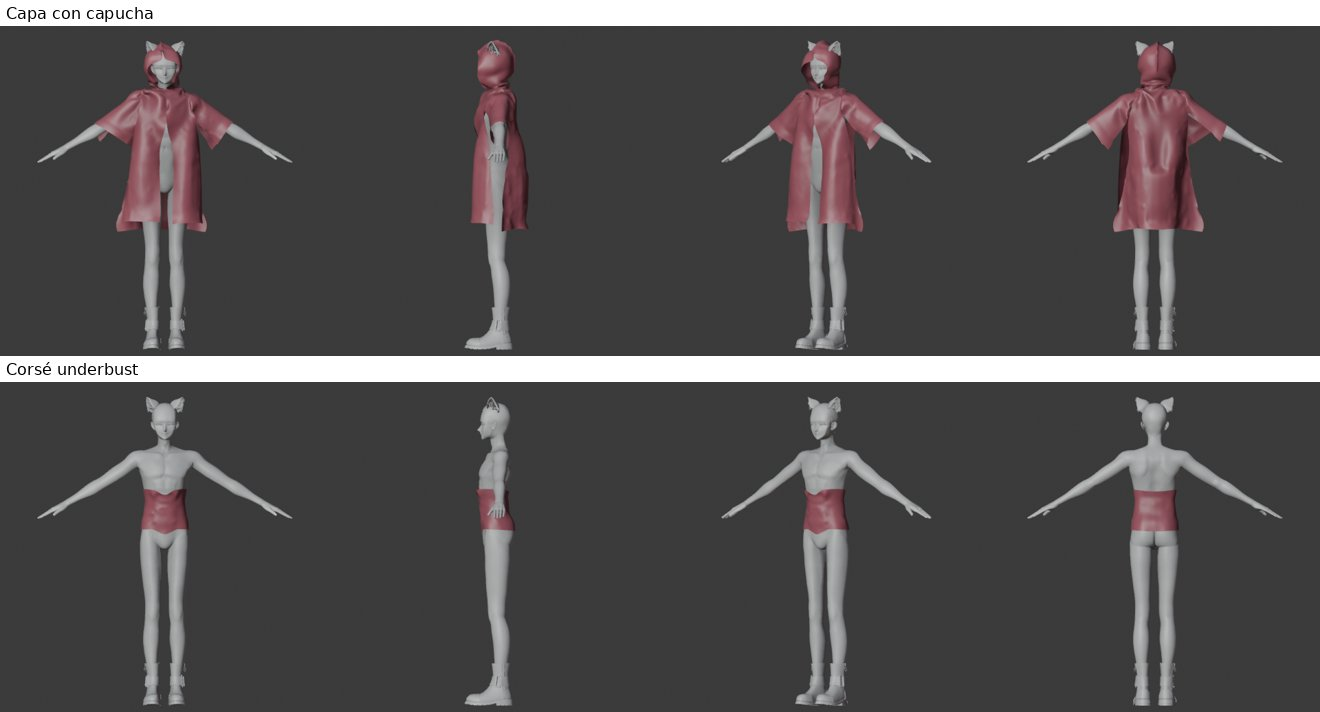
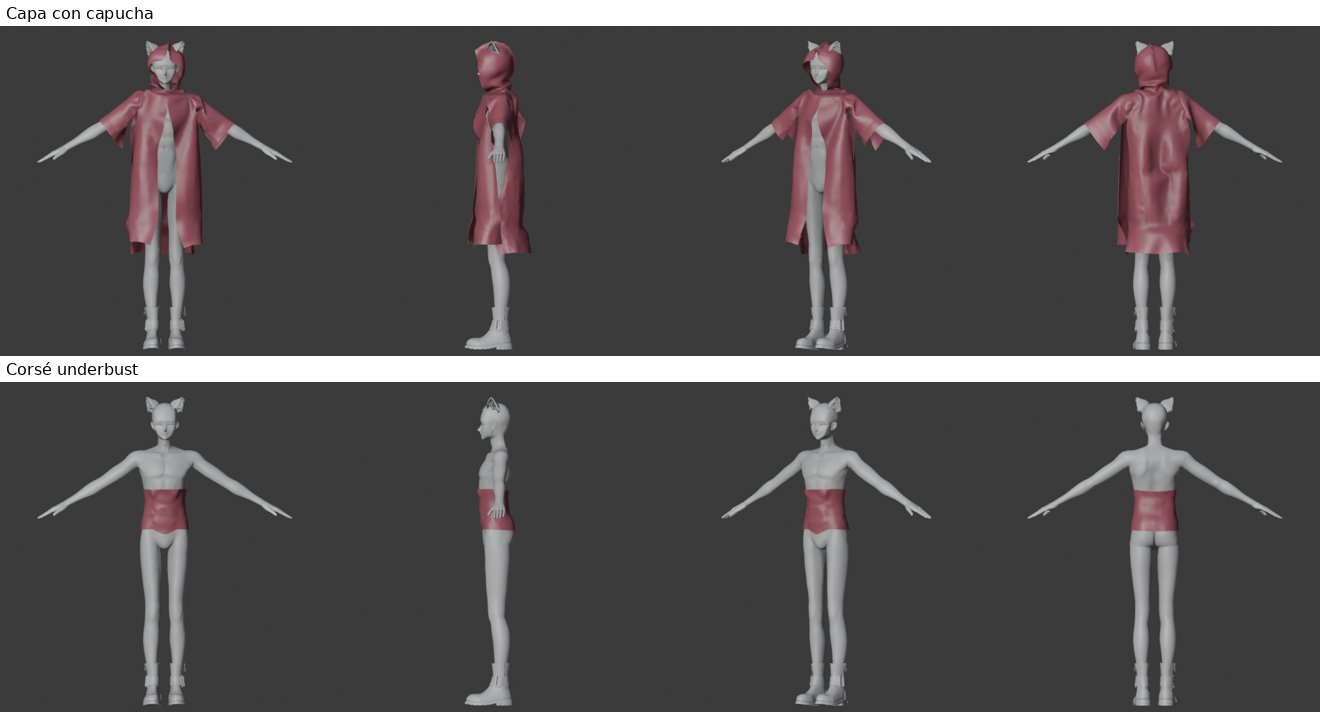
Prueba gótica: correcciones del advisor (cierre de la capa desde el cuello, largo con CAPE_EXTRA, underbust recto)
Claude-Session: https://claude.ai/code/session_01St8LTeWr6qLw6bSA7D5fYp

diff --git a/clothing_design/library.py b/clothing_design/library.py
@@ -1202,8 +1202,8 @@ def preset_corset(m, fit=-0.02, top_to="underarm", length_to="hip"):
     if underbust:
         # under the bust: a share of the way down from the armpit to the
         # waist (the measured "chest" line is no guide: on Hanka it is 4 cm
-        # under the shoulder), and never under the bust line; at least 6 cm
-        # above the waist
+        # under the shoulder), never above the bust line, and at least 6 cm
+        # above the waist (which is what decides on Manuka)
         pit0 = (Vector(arm0["p0"]).z - arm0["rad"][0]) if arm0 else z["chest"]
         top_z = pit0 - (pit0 - z["waist"]) * UNDERBUST_DROP
         top_z = max(min(top_z, z["chest"] - 0.02), z["waist"] + 0.06)
@@ -1247,7 +1247,8 @@ def preset_corset(m, fit=-0.02, top_to="underarm", length_to="hip"):
         drop = max(0.0, top_z - (pit - CORSET_PIT))
     def panel(name, front=False, dl=0.0, dr=0.0):
         return _corset_panel(tops[name], busts[name], waists[name], bots[name], Lb, Lw, L,
-                             CORSET_DIP if front else 0.0, CORSET_DIP if front else 0.0,
+                             (0.0 if underbust else CORSET_DIP) if front else 0.0,
+                             CORSET_DIP if front else 0.0,
                              dl, dr)
     def h_of(segs):
         # each panel is placed by the centre of its own box: the front's busk
@@ -1507,14 +1508,16 @@ CAPE_EASE = 0.045    # laid off the body: it goes over whatever is worn under it
 CAPE_ARM = 0.50      # the flap over each arm, as a fraction of the whole arm
 CAPE_ARM_FLARE = 1.6 # its hem against its width at the shoulder
 CAPE_ARM_EASE = 0.03
+CAPE_EXTRA = 0.12    # past the hip: the coat's extra length for the same settling
 
 
 def _cape_sleeve(d, fit, armhole, length, arm_ease):
     """A flap over the arm, sewn into the cape's armhole and left open
     underneath: a set-in cap (sized to the armhole it is sewn into) flaring
     to a wide hem. Laid round the arm as a tube with a slit underneath, its
-    hem is kept under one turn round the arm, or the flat piece wraps past
-    itself and the cloth starts inside its own other half."""
+    hem is kept under one turn round the arm where it can be (the flare is
+    capped; the width at the cap is the armhole's), or the flat piece wraps
+    past itself and the cloth starts inside its own other half."""
     d2 = dict(d, armhole=armhole / 1.02)
     segs, cw, cap_h = _sleeve(d2, fit, length, width_ease=1.25, straight=True)
     turn = 2.0 * math.pi * (d.get("biceps_r", 0.05) + arm_ease)
@@ -1548,6 +1551,10 @@ def preset_cape(m, fit=0.10, length_to="knee", arms=True):
     sh_x, sh_drop, arm_d = d["sh_x"], d["sh_drop"], d["arm_d"]
     top = z["shoulder"] + SHELF
     L = max(0.20, top - z[length_to])
+    if z[length_to] < z["hip"] - 0.05:
+        # past the hip it settles shorter, like the coat (Hanka's knee-length
+        # cape ended 13 cm above her knee): cut it longer by the same amount
+        L += CAPE_EXTRA * _len_scale(m)
     H = max(sh_x * 1.1, g["hip"] * 0.25 * (1.0 + fit) * CAPE_FLARE)
     HB = max(H, g["hip"] * 0.25 * (1.0 + fit) * CAPE_BACK_FLARE)
     close = min(CAPE_CLOSE * _len_scale(m), L * 0.4)
@@ -1555,6 +1562,10 @@ def preset_cape(m, fit=0.10, length_to="knee", arms=True):
     neck_f = patterns.bezier((nh, 0.0), (nh * 0.55, -dfh), (-nh * 0.55, -dfh), (-nh, 0.0), 14)
     neck_b = patterns.bezier((nh, 0.0), (nh * 0.55, -dbh), (-nh * 0.55, -dbh), (-nh, 0.0), 14)
     hf, hb = len(neck_f) // 2, len(neck_b) // 2
+    # the closure starts where the neck curve actually ends at the centre
+    # (3/4 of dfh, not dfh): starting lower left a 2 cm jump that was taken
+    # into the neck and closure edges, and their seams no longer matched
+    yc = neck_f[hf].y
     # the side runs straight down from the shoulder tip past the armpit,
     # where the arm leaves the body, and only then flares to the hem
     pit = (sh_x * 1.04, -arm_d)
@@ -1582,8 +1593,8 @@ def preset_cape(m, fit=0.10, length_to="knee", arms=True):
         _seg("arm_L",      arm_L),
         _seg("shoulder_L", [(sh_x, -sh_drop), (nh, 0.0)]),
         ("neck_L",         neck_f[:hf + 1]),
-        _seg("close_L",    [(0.0, -dfh), (0.0, -dfh - close)]),
-        _seg("open_L",     [(0.0, -dfh - close), (0.0, -L)]),
+        _seg("close_L",    [(0.0, yc), (0.0, yc - close)]),
+        _seg("open_L",     [(0.0, yc - close), (0.0, -L)]),
     ]
     front_r = mirror(front_l)
 

diff --git a/docs/prueba_gotica.md b/docs/prueba_gotica.md
@@ -18,30 +18,38 @@ Además, un patrón de la web viene a una talla humana fija, con márgenes de co
 
 **Hooded Cape** en Add Garment. Espalda y dos delanteros que cuelgan de los hombros, cerrados desde el cuello hasta el pecho (`CAPE_CLOSE`, 12 cm en un cuerpo de 1,65 m) y abiertos por debajo, con la capucha de la sudadera.
 - Los delanteros miden un cuarto de la cadera cada uno, con un 25 % de vuelo. La espalda es más amplia (×1,6) y se coloca un poco más afuera, para que sus lados caigan por encima de los delanteros y no los atraviesen al colocarla.
-- **Sobre cada brazo cae una solapa** hasta el codo (`_cape_sleeve`): cosida a la sisa de la capa y abierta por debajo, ensanchándose hacia el bajo. Su copa se calcula para medir lo mismo que la sisa en la que se cose. El bajo nunca pasa de una vuelta al brazo, para que la pieza no se monte sobre sí misma al colocarla. Con `arms=False` queda sin solapas, como un tabardo.
+- **Sobre cada brazo cae una solapa** hasta el codo (`_cape_sleeve`): cosida a la sisa de la capa y abierta por debajo, ensanchándose hacia el bajo. Su copa se calcula para medir lo mismo que la sisa en la que se cose. El vuelo del bajo se limita a 0,9 vueltas al brazo, para que la pieza no se monte sobre sí misma al colocarla (en Hanka y Manuka queda entre 0,71 y 0,90). Con `arms=False` queda sin solapas, como un tabardo.
+- El cierre empieza justo donde termina la curva del cuello. Empezaba 2 cm más abajo, y ese salto descuadraba las costuras del cuello con la capucha y del cierre (lo detectó `tests/test_presets.py`, que ahora pasa con la capa).
+- Pasada la cadera, la capa se corta 12 cm más larga (`CAPE_EXTRA`, como `COAT_EXTRA` del abrigo), porque al coserla se queda más corta: en Hanka, la de largo Regular acababa 13 cm por encima de la rodilla.
 - **Length:** Short es una capita hasta la cadera, Regular hasta la rodilla y Long hasta media pantorrilla.
 - La capucha sale de `_hood_pieces`, extraída de la sudadera sin cambiarla.
 
 ## El corsé underbust
 
 **Underbust Corset** en Add Garment (`preset_underbust`): las siete piezas del corsé, con el borde de arriba bajo el pecho en lugar de encima.
-- El borde de arriba va al 60 % del camino de la axila a la cintura (`UNDERBUST_DROP`), nunca por encima de la línea del pecho y al menos 6 cm sobre la cintura. La línea de pecho que mide el add-on no sirve de guía: en Hanka está 4 cm bajo el hombro.
+- El borde de arriba va al 60 % del camino de la axila a la cintura (`UNDERBUST_DROP`), nunca por encima de la línea del pecho y al menos 6 cm sobre la cintura. En Manuka manda ese mínimo de 6 cm. La línea de pecho que mide el add-on no sirve de guía: en Hanka está 4 cm bajo el hombro.
+- El borde de arriba del delantero va recto, sin la bajada en el centro del corsé de siempre.
+- Desde el diálogo, la holgura sale en 0,08, como en todas las prendas; el corsé queda más ceñido con −0,02.
 - Es una opción nueva de `preset_corset` (`top_to="underbust"`). El corsé de siempre no cambia.
 
-Los 15 presets anteriores siguen dando los mismos patrones en Regular (comparado contra la versión anterior en Hanka, Manuka, mujer y hombre; solo la falda lisa cambió, en la Fase 7).
+Los 13 presets anteriores dan exactamente los mismos patrones que en `fase-7`, en todas las combinaciones de Length y Sleeves (comparado por el advisor en Hanka, Manuka, mujer y hombre).
 
 ## Resultados
 
 | | Capa (Hanka) | Capa (Manuka) | Underbust (Hanka) | Underbust (Manuka) |
 |---|---|---|---|---|
 | Puntadas abiertas al coser | 0 | 0 | 0 | 0 |
-| Triángulos (exportación ligera) | 6.936 | 3.139 | 1.056 | 444 |
-| Vértices del cuerpo ocultos | 1.091 de 8.985 | 1.512 de 15.064 | 547 de 8.985 | 628 de 15.064 |
+| Triángulos (exportación ligera) | 7.676 | 3.525 | 1.064 | 448 |
+| Vértices del cuerpo ocultos | 1.082 de 8.985 | 1.282 de 15.064 | 567 de 8.985 | 657 de 15.064 |
 | `test_export` | 0 fallos | 0 fallos | 0 fallos | 0 fallos |
+
+`tests/test_presets.py` pasa con las dos (sus únicos fallos son los 6 de la falda de volantes por figura, que ya estaban en `fase-7`).
 
 `docs/img/prueba_gotica_hanka.jpg`: las dos prendas en Hanka, de frente, lado, 3/4 y espalda. Las capturas de Manuka no van al repo.
 
 **Pendiente:**
 - En Manuka la capucha cae a la espalda, igual que con su sudadera, y las solapas quedan más tiesas, casi horizontales.
-- El underbust de Manuka sale con poca malla (444 triángulos), como su corsé.
+- El underbust de Manuka sale con poca malla (448 triángulos), como su corsé.
+- Al pasar los pesos del esqueleto a la capa, solo el 39 % (Hanka) y el 51 % (Manuka) de los vértices se emparejan directamente, frente al 74–79 % de la sudadera. En Unity hay que mirar cómo se mueven la caída y las solapas al andar y al levantar los brazos.
+- Idea por probar: la sisa de la capa está más hacia el centro que la de las otras prendas; puede ser la causa de que las solapas de Manuka queden tiesas.
 - Con el frente y los lados abiertos de la capa, conviene revisar en Unity qué piel borra la máscara antes de vender.
